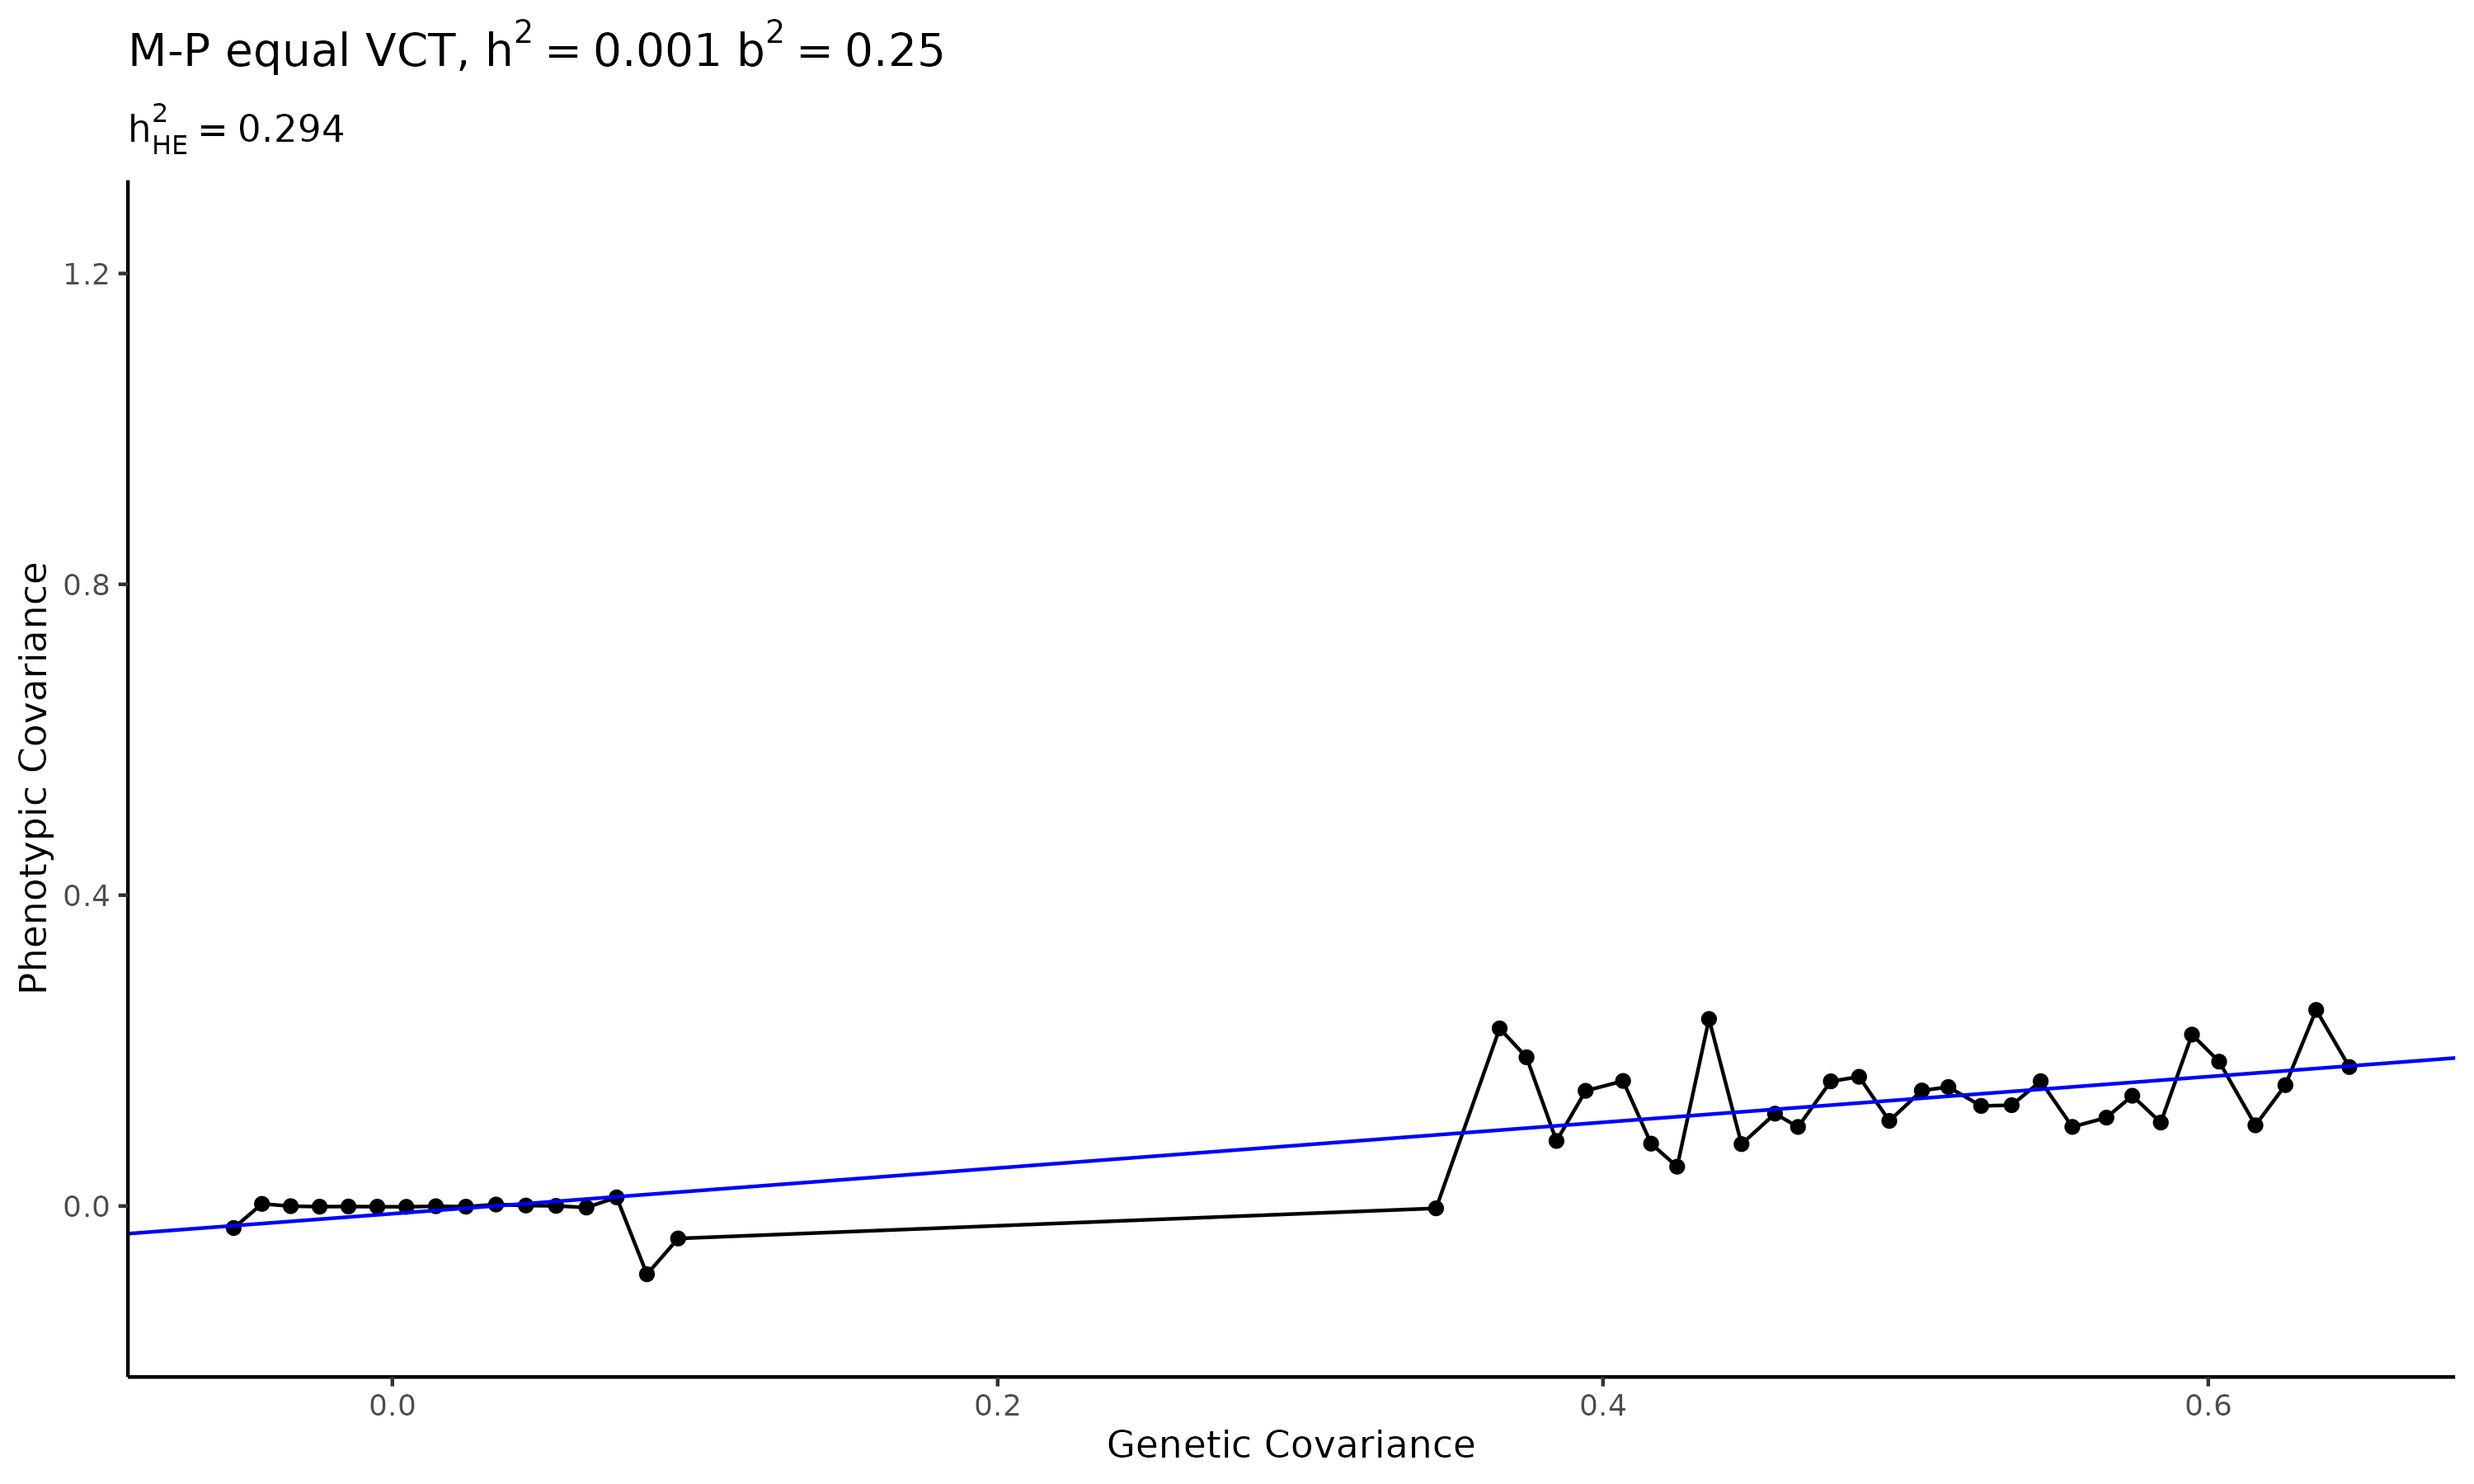
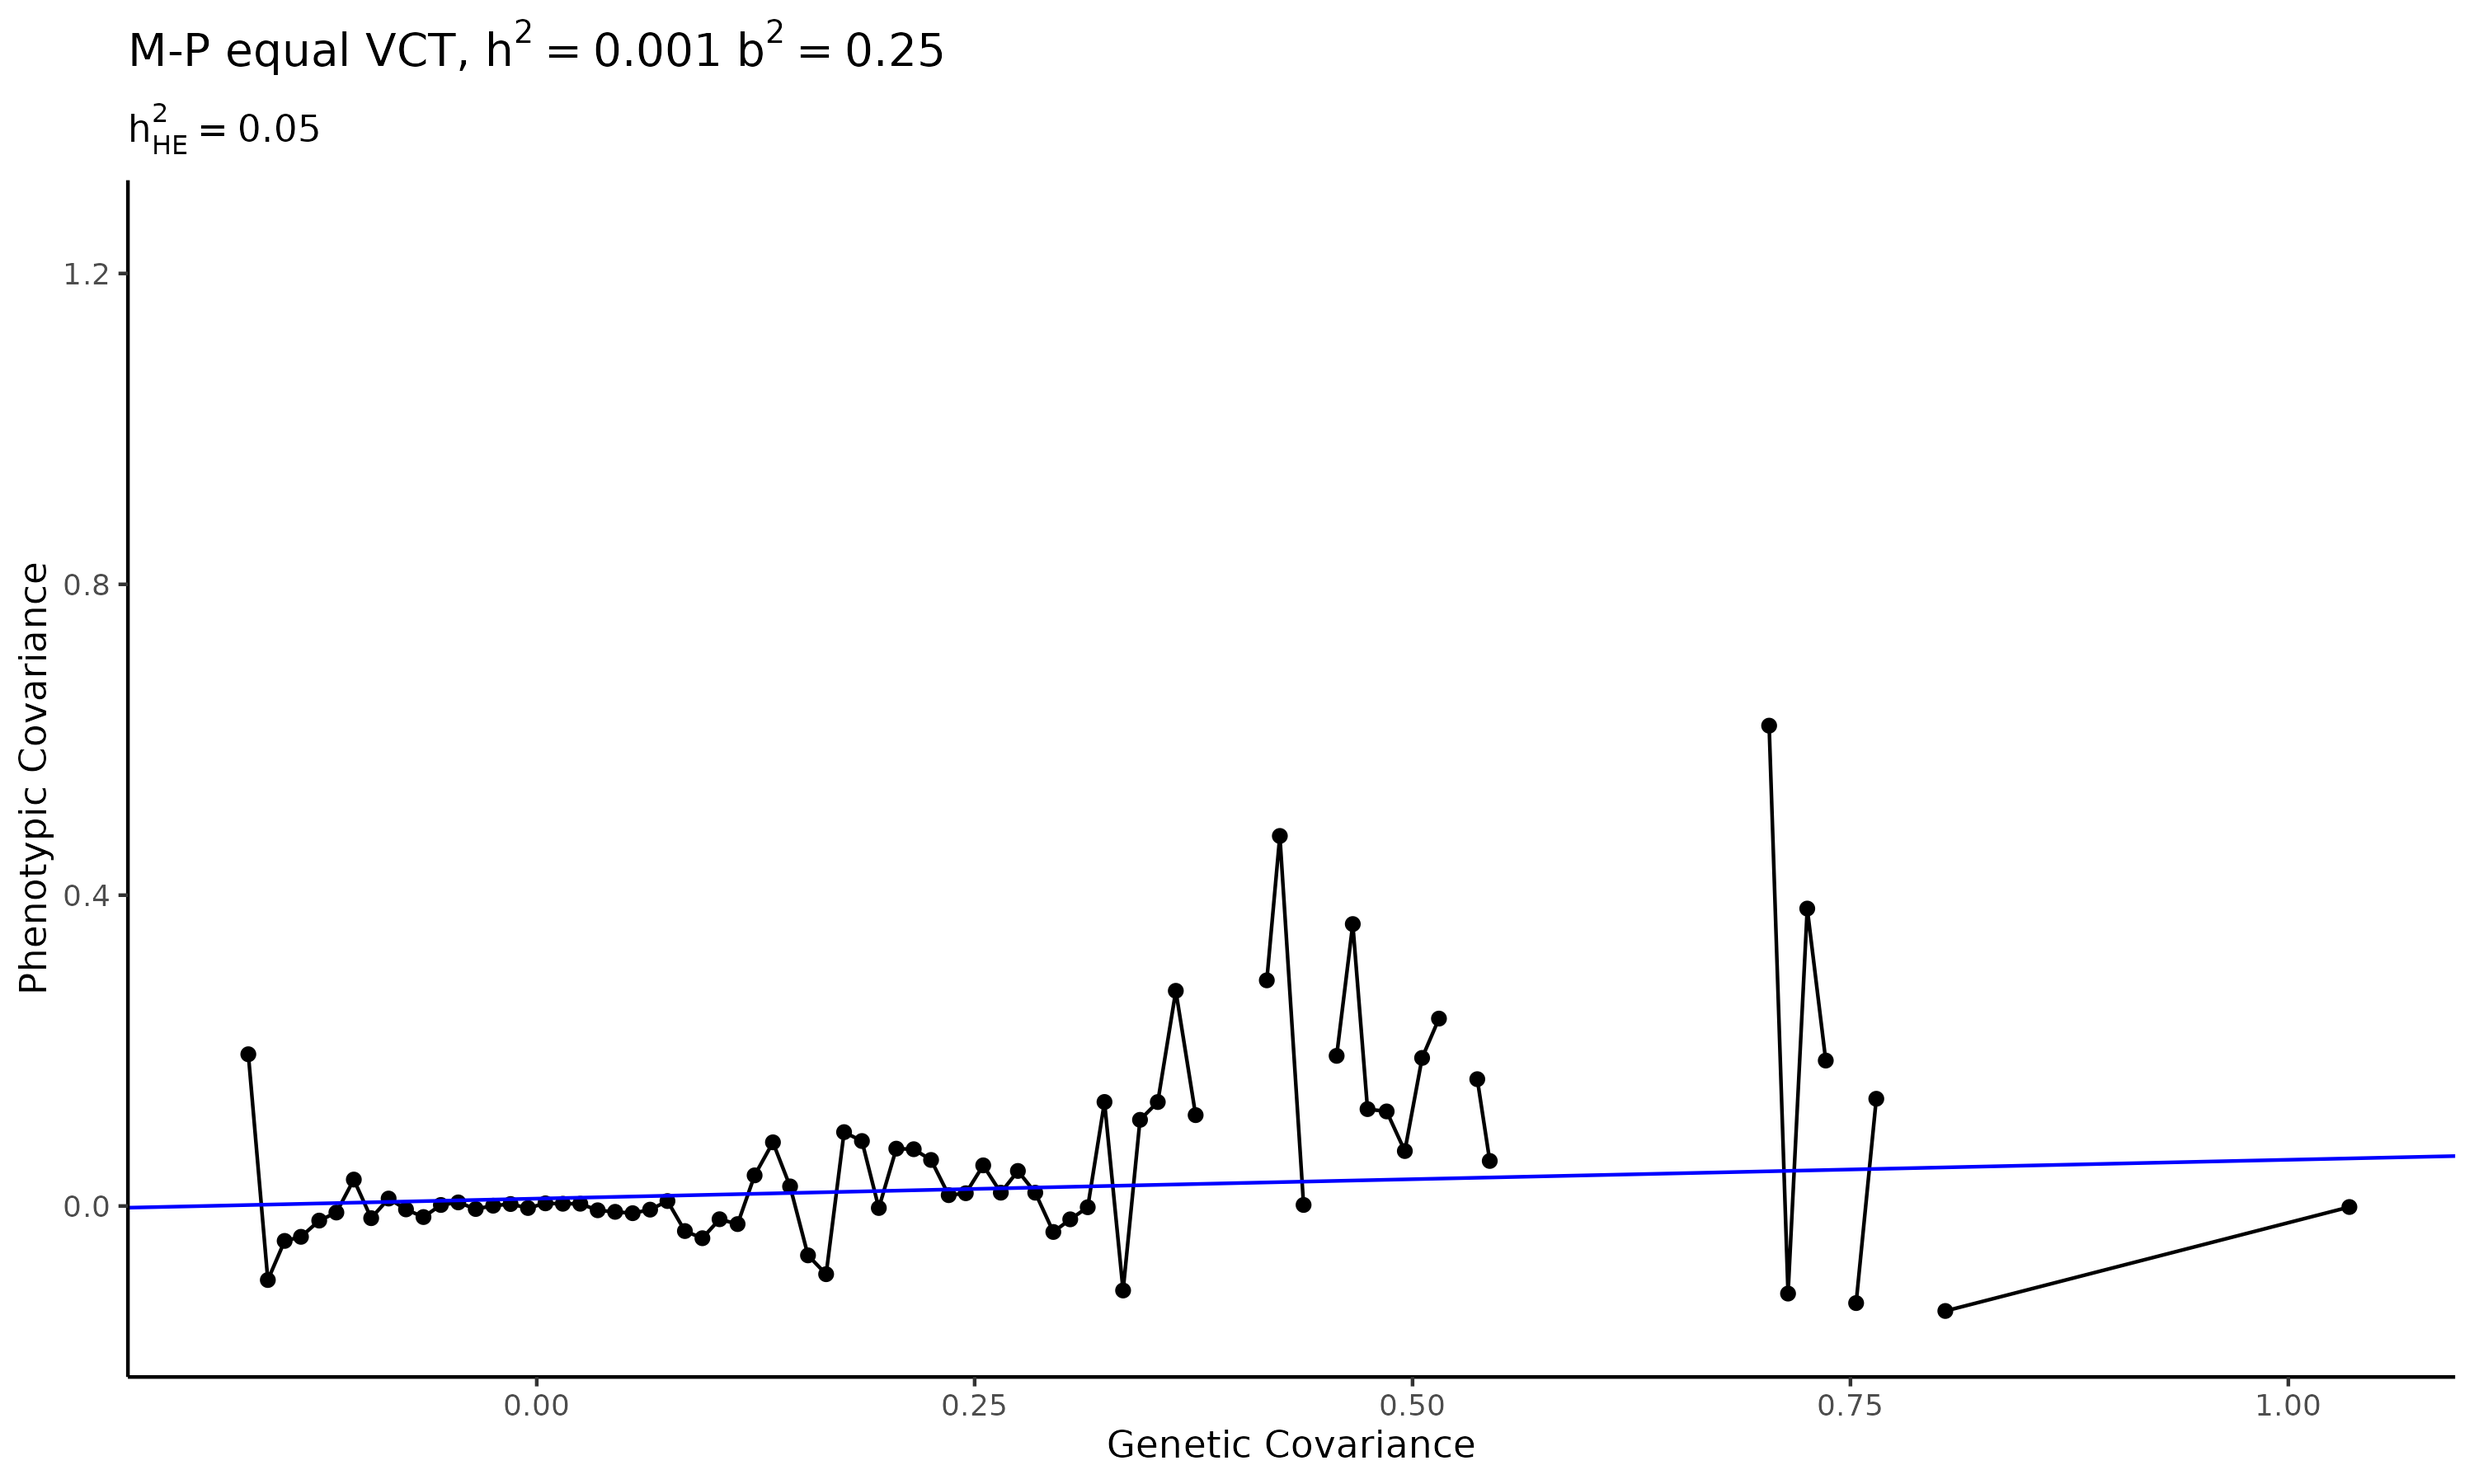
ahah—it seems just using the `ConstantCount` class fixed the problem (?)

diff --git a/scripts/sim_vct.py b/scripts/sim_vct.py
@@ -201,12 +201,11 @@ arch, _ = vct_architecture(
     w=0,
 )
 
-mating_regime = xft.mate.RandomMatingRegime(
-    mates_per_female=1,
-    offspring_per_pair=2,
-    female_offspring_per_pair="balanced",
-    exhaustive=True,
-)
+mating_regime = xft.mate.RandomMatingRegime(offspring_per_pair = xft.utils.ConstantCount(2),
+                                mates_per_female = xft.utils.ConstantCount(1),
+                                female_offspring_per_pair = 'balanced',
+                                sex_aware = False,
+                                exhaustive = True)
 
 post_processors = [xft.proc.LimitMemory(n_haplotype_generations=1)]
 sim = xft.sim.Simulation(
